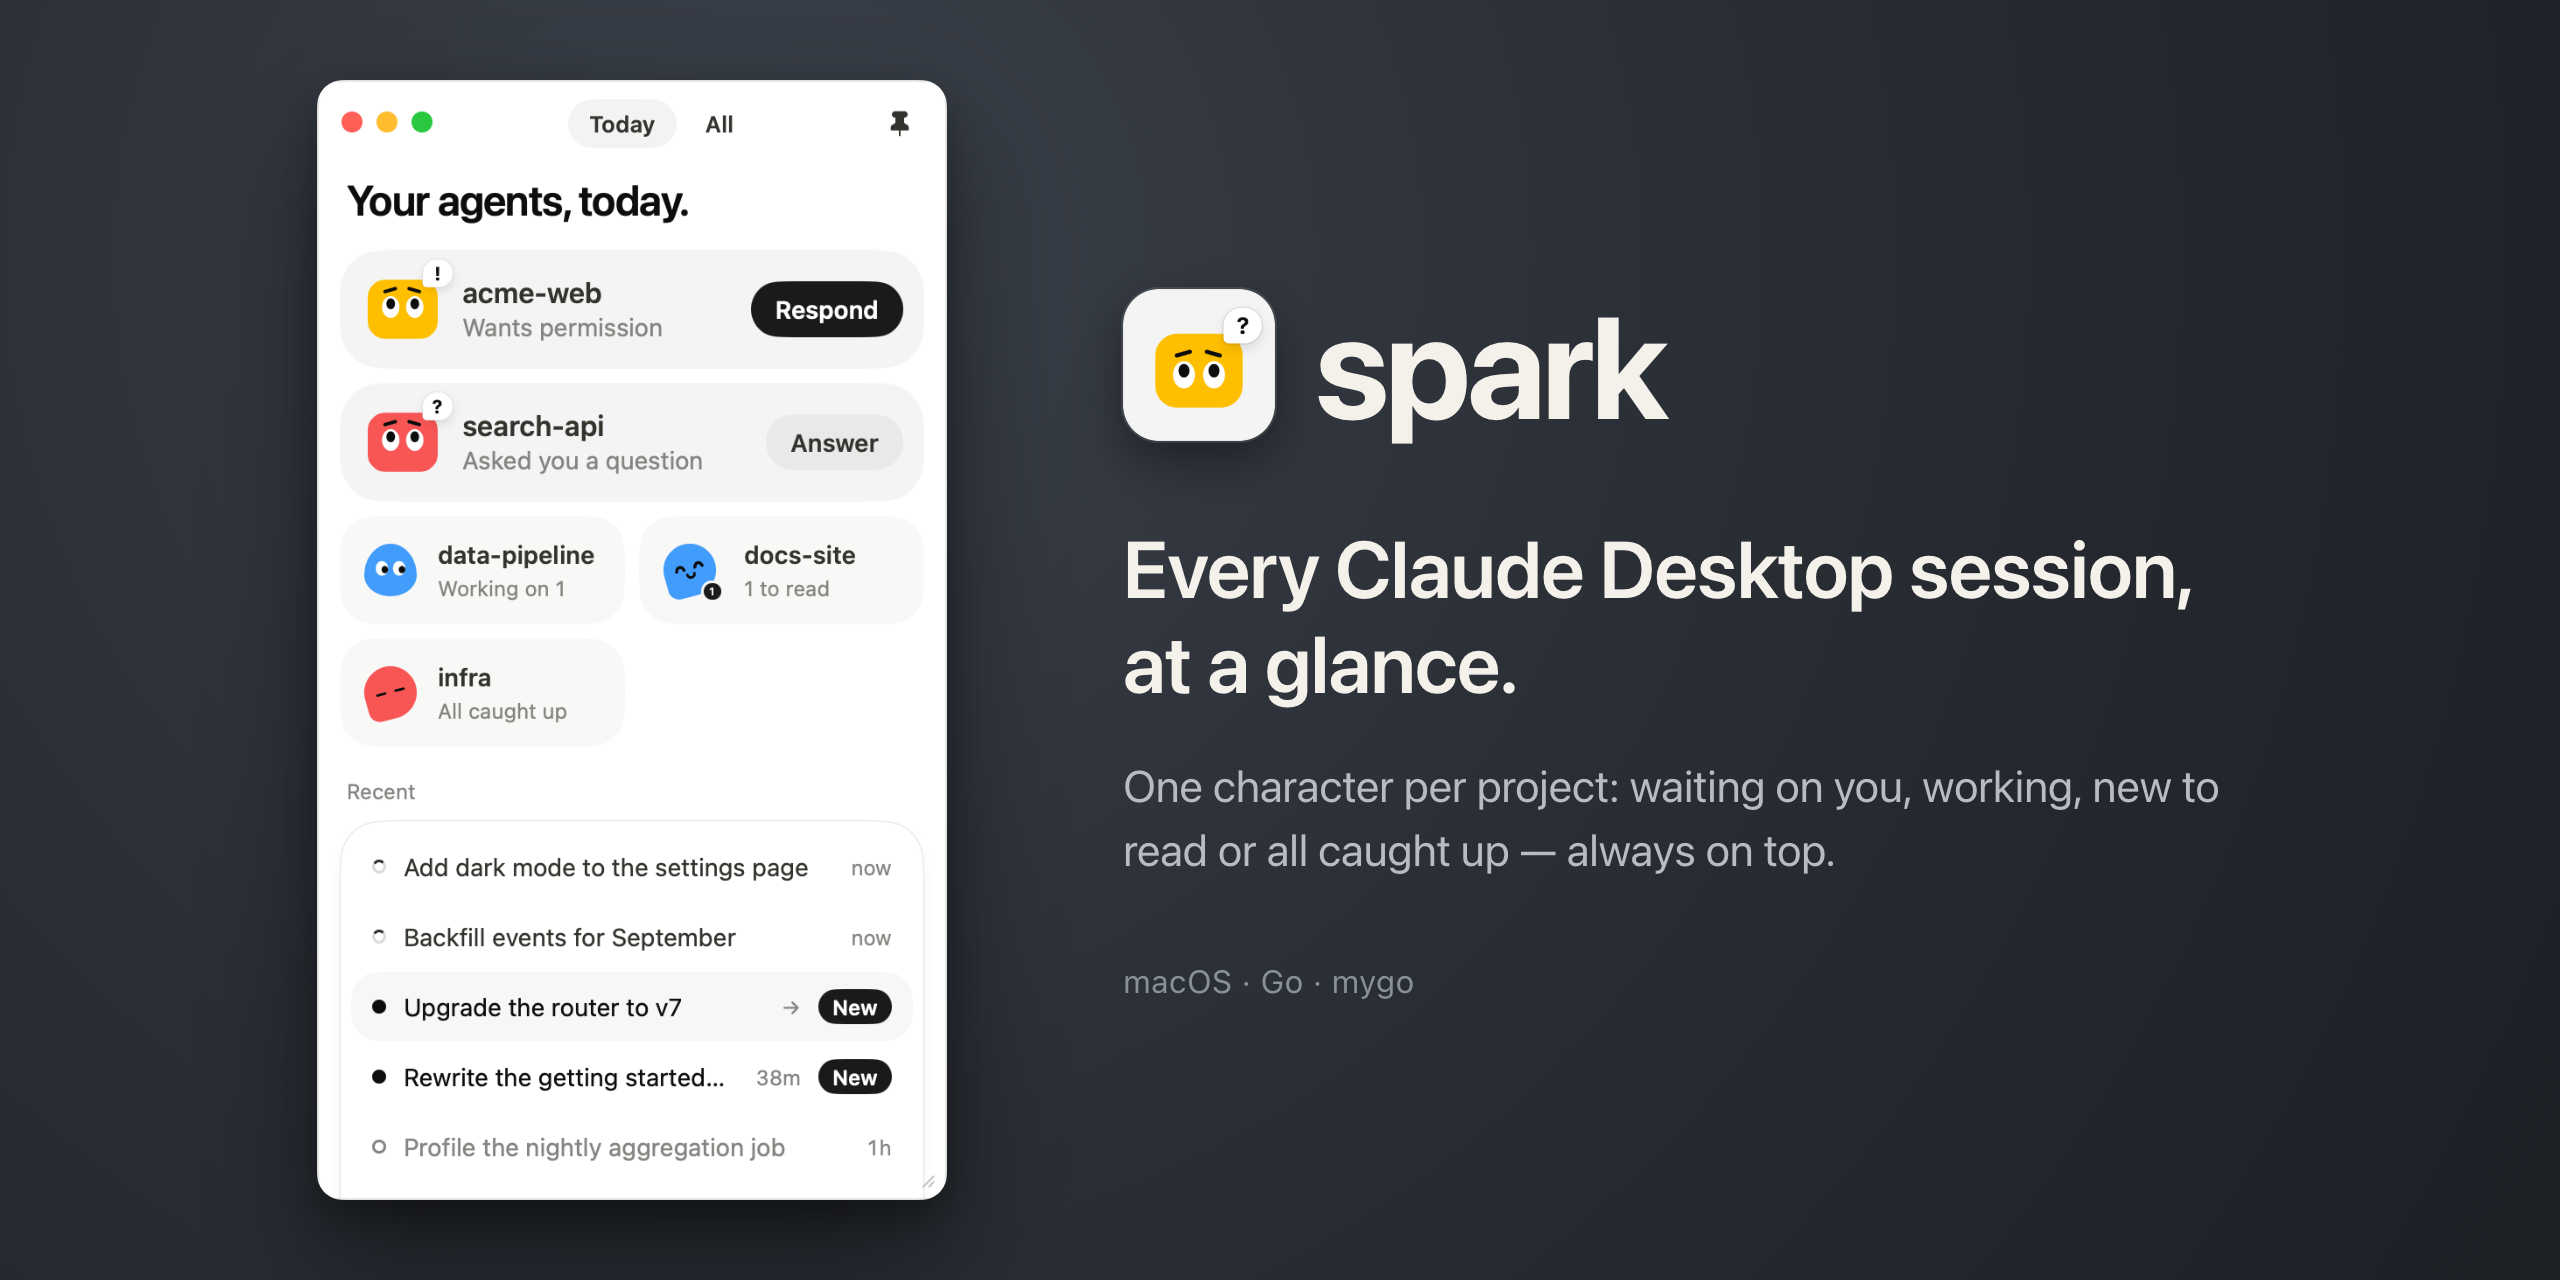
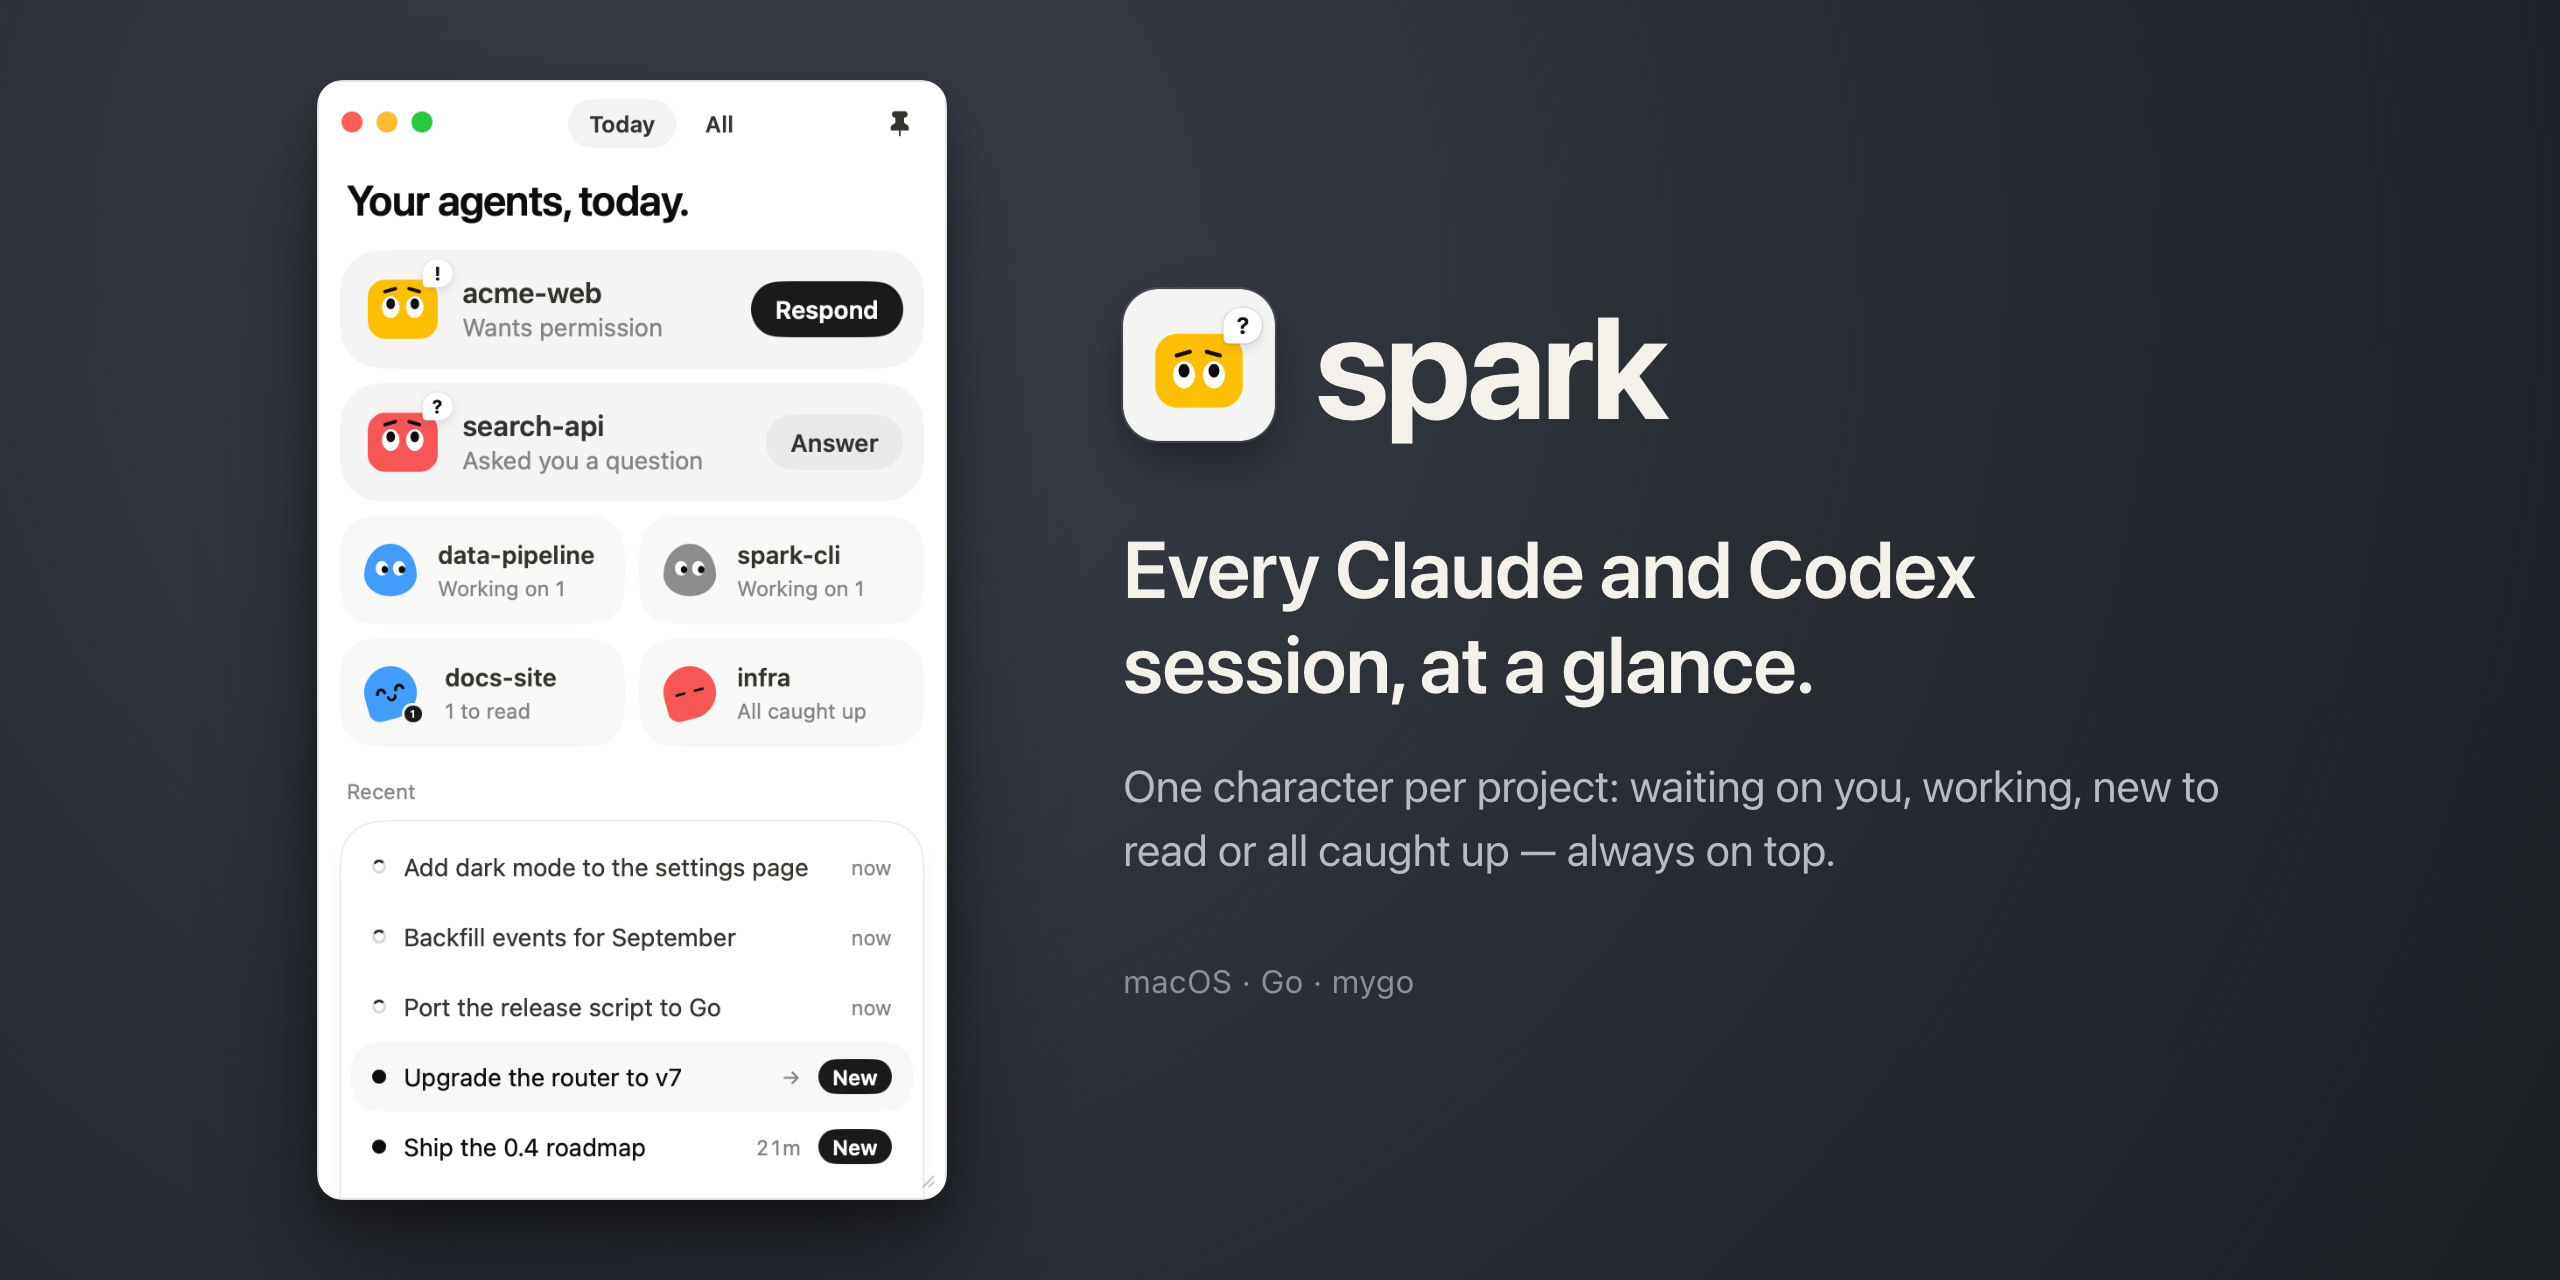
🔖 release: v0.4.0
Bumps the version and refreshes the banner, which still said "Every Claude
Desktop session" after Codex support landed. The tagline now names both
agents and the demo data carries a spark-cli project with two Codex
threads, so the screenshot shows what the release actually does.

Artifacts in build/release:
  Spark-0.4.0-apple-silicon.dmg
  Spark-0.4.0-intel.dmg

diff --git a/docs/banner/index.html b/docs/banner/index.html
@@ -30,7 +30,7 @@
   <img class="app" src="app.png" alt="">
   <div class="copy">
     <div class="brand"><img src="icon.png" alt=""><h1>spark</h1></div>
-    <p class="tagline">Every Claude Desktop session, at a glance.</p>
+    <p class="tagline">Every Claude and Codex session, at a glance.</p>
     <p class="subtitle">One character per project: waiting on you, working, new to read or all caught up — always on top.</p>
     <p class="meta">macOS · Go · mygo</p>
   </div>

diff --git a/banner_test.go b/banner_test.go
@@ -85,7 +85,7 @@ func renderDemoApp() *image.RGBA {
 	return img
 }
 
-// demoApp is a set of made-up sessions covering all four states
+// demoApp is a set of made-up sessions covering all four states, from both agents
 func demoApp() *app {
 	now := time.Now()
 	ago := func(d time.Duration) time.Time { return now.Add(-d) }
@@ -110,6 +110,10 @@ func demoApp() *app {
 		}},
 		{ProjectName: "infra", Sessions: []monitor.SessionItem{
 			{ID: "local_11", Title: "Rotate the staging certificates", State: monitor.Completed, ActivityAt: ago(3 * time.Hour), IsToday: true},
+		}},
+		{ProjectName: "spark-cli", Sessions: []monitor.SessionItem{
+			{ID: "01a12f69-fdb1-7173-b784-47189d9442d7", Source: monitor.SourceCodex, Title: "Port the release script to Go", State: monitor.Running, ActivityAt: now, IsToday: true},
+			{ID: "01a12f6a-004f-7b00-a3db-568255912b84", Source: monitor.SourceCodex, Title: "Ship the 0.4 roadmap", State: monitor.Unread, ActivityAt: ago(21 * time.Minute), IsToday: true},
 		}},
 	}}
 }

diff --git a/view_test.go b/view_test.go
@@ -96,7 +96,7 @@ func TestAllShowsEveryProjectAndGroupsByDay(t *testing.T) {
 	a := demoApp()
 	a.filter = filterAll
 	tt := newViewTester(a, 360, 640)
-	for _, s := range []string{"Every agent.", "5 projects · 11 sessions", "Needs you", "All caught up", "Today", "Yesterday", "Earlier", "Migrate to the new auth client"} {
+	for _, s := range []string{"Every agent.", "6 projects · 13 sessions", "Needs you", "All caught up", "Today", "Yesterday", "Earlier", "Migrate to the new auth client", "Port the release script to Go"} {
 		if !tt.HasText(s) {
 			t.Errorf("All should show %q; it shows %q", s, tt.Texts())
 		}
